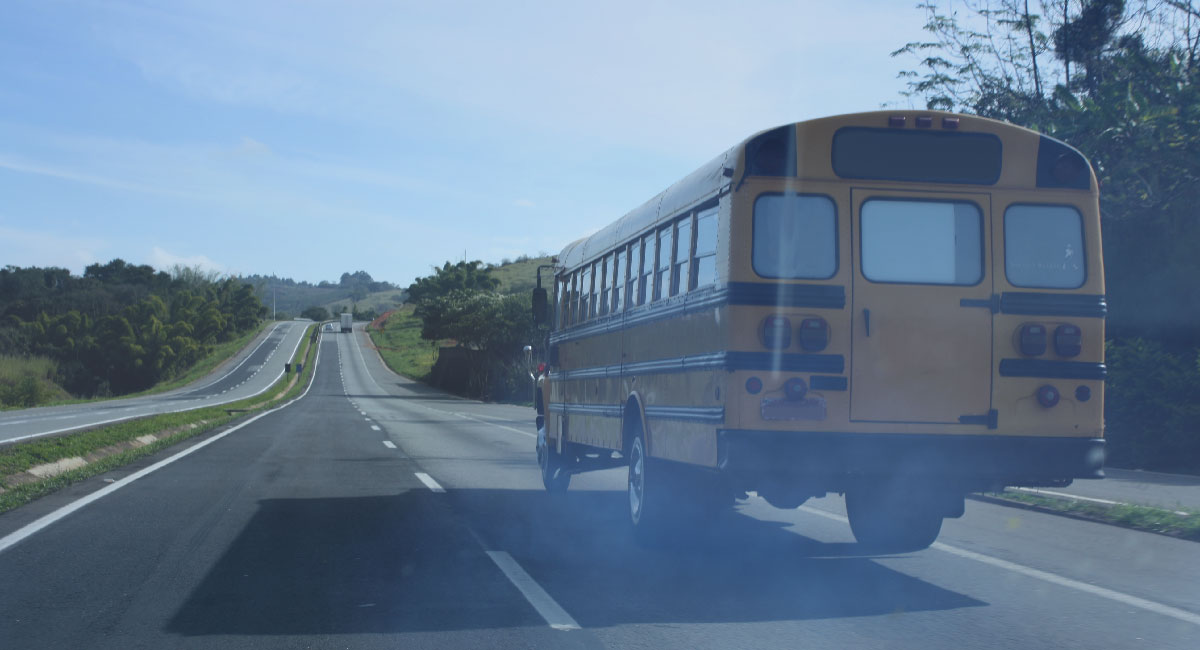
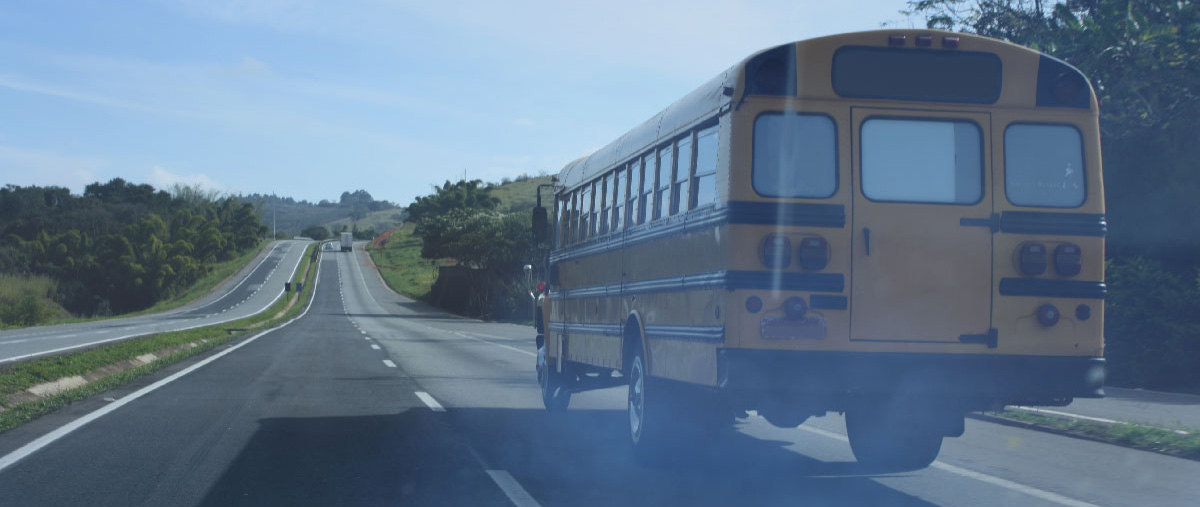
Added the image
Added the first image to the main page.

diff --git a/index.html b/index.html
@@ -20,6 +20,7 @@
 		</ul>
 	</div>	
 	<div id="Home Content">
+		<p><img id="schoolBus" src="images/daBus_Good_Buy_02_1200.jpg"></p>
 		<p> Welcome to Da Skool Bus, a food truck roaming around San Francisco.
 			We take that old school school lunch meal and add a bit of excellence to it.</p>
 			

diff --git a/css/foodtruck.css b/css/foodtruck.css
@@ -13,6 +13,12 @@ body {
 	font-family: 'Open Sans', serif;
 	font-size: 22px:
 }
+/* front page image */
+
+.schoolBus {
+	margin: auto;
+    float: inherit;
+}
 
 /* paragraph text */
 
